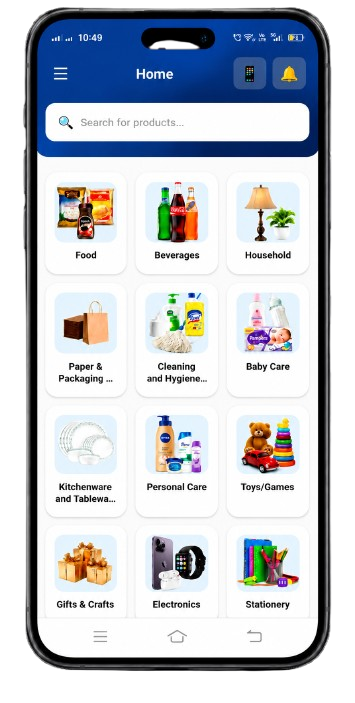
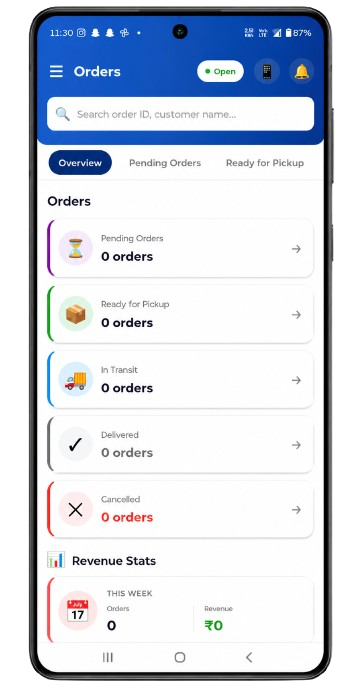
latest images added successfully

diff --git a/src/pages/Services/VendorApp/VendorApp.jsx b/src/pages/Services/VendorApp/VendorApp.jsx
@@ -36,10 +36,10 @@ const GOLD = "#F2B705";
 const GOLD_SOFT = "#FBD758";
 const INK = "#1B1B1F";
 const PAPER = "#F7F7FA";
-
+ 
 const VENDOR_APP_URL =
   "https://play.google.com/store/apps/details?id=com.dhatvibs.zestbot.vendor.grocery";
-
+ 
 const whatYouCanDo = [
   {
     icon: Store,
@@ -72,7 +72,7 @@ const whatYouCanDo = [
     text: "Provide timely service, maintain accurate product information, and deliver a better shopping experience that encourages repeat customers.",
   },
 ];
-
+ 
 const keyFeatures = [
   { icon: UserPlus, text: "Easy vendor registration and onboarding" },
   { icon: Store, text: "Online store management" },
@@ -86,7 +86,7 @@ const keyFeatures = [
   { icon: Bell, text: "Real-time notifications" },
   { icon: MousePointerClick, text: "Simple and user-friendly interface" },
 ];
-
+ 
 const whyChoose = [
   "Expand your business beyond walk-in customers",
   "Increase your local visibility",
@@ -95,7 +95,7 @@ const whyChoose = [
   "Improve customer satisfaction through faster service",
   "Grow your revenue with digital commerce opportunities",
 ];
-
+ 
 const whoCanJoin = [
   { icon: ShoppingBasket, label: "Grocery Stores" },
   { icon: Store, label: "Kirana Stores" },
@@ -107,11 +107,11 @@ const whoCanJoin = [
   { icon: Croissant, label: "Bakeries" },
   { icon: Gift, label: "Gift & Stationery Stores" },
 ];
-
+ 
 export default function VendorAppPage() {
   const navigate = useNavigate();
   const [isPaused, setIsPaused] = useState(false);
-
+ 
   return (
     <div style={{ background: PAPER, minHeight: "100vh", fontFamily: "'Inter', system-ui, sans-serif", color: INK }}>
       <style>{`
@@ -124,13 +124,13 @@ export default function VendorAppPage() {
       border-color .35s ease,
       background .35s ease;
   }
-
+ 
   .hover-card:hover {
     transform: translateY(-12px) scale(1.02);
     box-shadow: 0 22px 45px rgba(21,35,82,.18);
     border-color: #F2B705;
   }
-
+ 
   .hover-card::before{
       content:"";
       position:absolute;
@@ -150,39 +150,39 @@ export default function VendorAppPage() {
   .hover-card:hover::before{
       opacity:1;
   }
-
+ 
   .hover-card .icon-box{
       transition:
       transform .35s ease,
       background .35s ease;
   }
-
+ 
   .hover-card:hover .icon-box{
-
+ 
       transform:rotate(-8deg) scale(1.12);
       background:#F2B705;
-
+ 
   }
-
+ 
   .hover-card:hover .icon-box svg{
-
+ 
       color:#152352 !important;
-
+ 
   }
-
+ 
   .hover-card h3{
-
+ 
       transition:color .3s;
-
+ 
   }
-
+ 
   .hover-card:hover h3{
-
+ 
       color:#F2B705;
-
+ 
   }
-
-  
+ 
+ 
 `}
       </style>
       {/* BACK LINK */}
@@ -206,7 +206,7 @@ export default function VendorAppPage() {
           <ArrowLeft size={16} /> Back to Services
         </button>
       </div>
-
+ 
       {/* HERO */}
       <section style={{ maxWidth: 1100, margin: "0 auto", padding: "36px 6% 60px", display: "grid", gridTemplateColumns: "1.1fr 0.9fr", gap: 48, alignItems: "center" }}>
         <div>
@@ -282,7 +282,7 @@ export default function VendorAppPage() {
             </a>
           </div>
         </div>
-
+ 
         {/* Vendor App Phone Image */}
         <div
           style={{
@@ -304,11 +304,11 @@ export default function VendorAppPage() {
           />
         </div>
       </section>
-
+ 
       {/* WHAT YOU CAN DO */}
       <section id="features" style={{ background: "#fff", padding: "70px 6%" }}>
         <div style={{ maxWidth: 1100, margin: "0 auto" }}>
-
+ 
           <p
             style={{
               textAlign: "center",
@@ -321,7 +321,7 @@ export default function VendorAppPage() {
           >
             WHAT YOU CAN DO
           </p>
-
+ 
           <h2
             style={{
               textAlign: "center",
@@ -333,7 +333,7 @@ export default function VendorAppPage() {
           >
             Everything You Need to Run Your Store Online
           </h2>
-
+ 
           <div style={{ display: "grid", gridTemplateColumns: "repeat(auto-fit, minmax(260px, 1fr))", gap: 24 }}>
             {whatYouCanDo.map(({ icon: Icon, title, text }, i) => (
               <div
@@ -364,7 +364,7 @@ export default function VendorAppPage() {
               </div>
             ))}
           </div>
-
+ 
         </div>
       </section>
       {/* KEY FEATURES - navy band */}
@@ -376,7 +376,7 @@ export default function VendorAppPage() {
           <h2 style={{ textAlign: "center", fontFamily: "Georgia, serif", fontSize: 32, color: "#fff", margin: "0 0 44px" }}>
             Built to Simplify Running Your Store
           </h2>
-
+ 
           <div style={{ display: "grid", gridTemplateColumns: "repeat(auto-fit, minmax(260px, 1fr))", gap: "18px 28px" }}>
             {keyFeatures.map(({ icon: Icon, text }, i) => (
               <div key={i} style={{ display: "flex", alignItems: "center", gap: 14 }}>
@@ -400,7 +400,7 @@ export default function VendorAppPage() {
           </div>
         </div>
       </section>
-
+ 
       {/* WHY CHOOSE */}
       <section
         style={{
@@ -410,9 +410,9 @@ export default function VendorAppPage() {
           overflow: "hidden",
         }}
       >
-      
+     
         {/* RIGHT IMAGE */}
-
+ 
         <img
           src={community}
           alt=""
@@ -428,9 +428,9 @@ export default function VendorAppPage() {
             zIndex: 1,
           }}
         />
-
+ 
         {/* CONTENT */}
-
+ 
         <div
           style={{
             maxWidth: 900,
@@ -450,7 +450,7 @@ export default function VendorAppPage() {
           >
             Why Choose the ZestBot Vendor App?
           </h2>
-
+ 
           <div
             style={{
               display: "grid",
@@ -475,7 +475,7 @@ export default function VendorAppPage() {
                     marginTop: 2,
                   }}
                 />
-
+ 
                 <span
                   style={{
                     fontSize: 15.5,
@@ -490,7 +490,7 @@ export default function VendorAppPage() {
           </div>
         </div>
       </section>
-
+ 
       {/* WHO CAN JOIN */}
       <section style={{ background: "#fff", padding: "0 6% 70px" }}>
         <div style={{ maxWidth: 1100, margin: "0 auto" }}>
@@ -504,7 +504,7 @@ export default function VendorAppPage() {
             The ZestBot Vendor App is designed for grocery stores, restaurants, and every kind
             of neighborhood shop in between.
           </p>
-
+ 
           <div style={{ display: "grid", gridTemplateColumns: "repeat(auto-fit, minmax(160px, 1fr))", gap: 16 }}>
             {whoCanJoin.map(({ icon: Icon, label }, i) => (
               <div
@@ -537,14 +537,14 @@ export default function VendorAppPage() {
               </div>
             ))}
           </div>
-
+ 
           <p style={{ textAlign: "center", color: "#5b6072", fontSize: 14.5, marginTop: 28 }}>
             Plus other local retail businesses — if you serve your local community, ZestBot can
             help you connect with more customers and grow.
           </p>
         </div>
       </section>
-
+ 
       {/* PARTNER CTA */}
       <section style={{ background: "#192A5f", padding: "70px 6%", textAlign: "center" }}>
         <h2 style={{ fontFamily: "Georgia, serif", fontSize: 34, color: "#fff", margin: "0 0 16px" }}>
@@ -572,9 +572,10 @@ export default function VendorAppPage() {
           >
             Get it on Google Play
           </a>
-
+ 
         </div>
       </section>
     </div>
   );
 }
+ 

diff --git a/src/pages/Services/CustomerApp/CustomerApp.jsx b/src/pages/Services/CustomerApp/CustomerApp.jsx
@@ -357,7 +357,7 @@ export default function CustomerAppPage() {
             KEY FEATURES
           </p>
           <h2 style={{ textAlign: "center", fontFamily: "Georgia, serif", fontSize: 32, color: "#fff", margin: "0 0 44px" }}>
-            Built for Fast, Simple Local Shopping
+            Built for Fast & Simple Local Shopping
           </h2>
  
           <div style={{ display: "grid", gridTemplateColumns: "repeat(auto-fit, minmax(260px, 1fr))", gap: "18px 28px" }}>